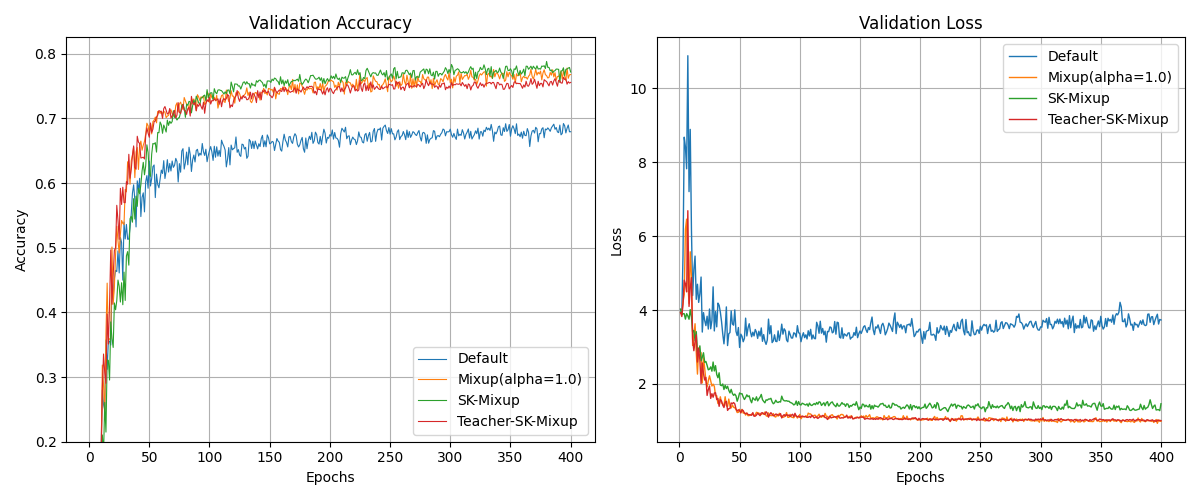
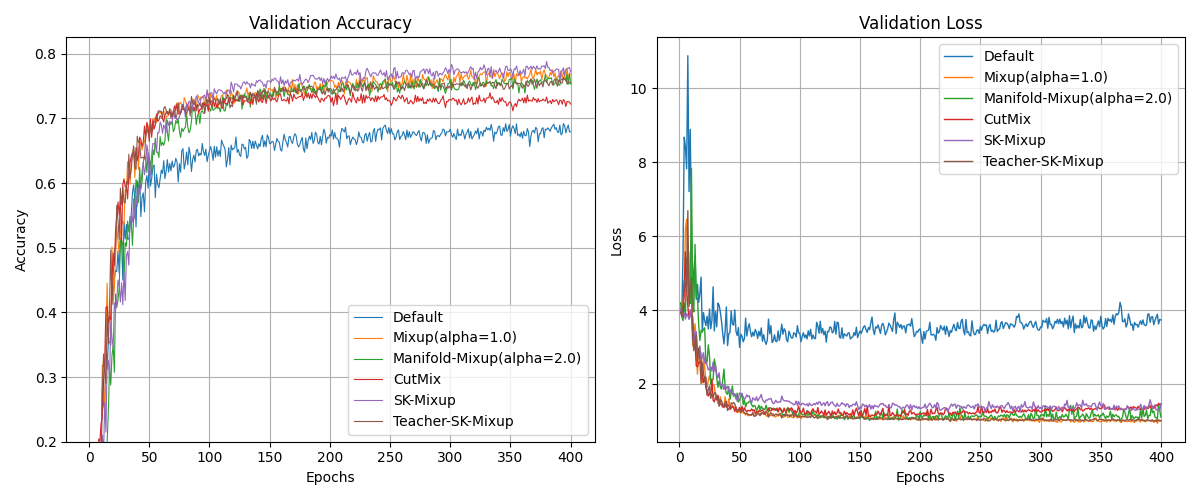
teacher-sk-mixup-curriculum

diff --git a/umap_mnist.py b/umap_mnist.py
@@ -1,58 +1,64 @@
-import umap
-from sklearn.datasets import fetch_openml
+import torch
 import numpy as np
+import umap
 import matplotlib.pyplot as plt
-import matplotlib.cm as cm
-from torchvision.datasets import CIFAR10
+from torch.utils.data import DataLoader, Subset
+from torchvision import datasets, transforms
+from src.methods.foma import foma
 
-# MNIST を NumPy 配列で取得
-mnist = fetch_openml(
-    'mnist_784',
-    version=1,
-    as_frame=False,
-    parser='liac-arff'
-)
-X, y = mnist.data.astype(np.float32) / 255.0, mnist.target.astype(int)
+def main():
 
-# サンプル絞り込み
-rng = np.random.RandomState(42)
-idx = rng.choice(len(X), 6000, replace=False)
-X_sub, y_sub = X[idx], y[idx]
+    data_type = "foma"
 
-# trainset = CIFAR10(root='./data', train=True, download=True)
-# # NumPy 配列に変換して (N, 32*32*3) のベクトルにリシェイプ＋0–1 正規化
-# X = trainset.data.astype(np.float32).reshape(len(trainset), -1) / 255.0
-# y = np.array(trainset.targets)   # (N,) のラベル配列
+    # 1. データセットの準備
+    transform = transforms.Compose([
+        transforms.ToTensor(),
+    ])
+    mnist_train = datasets.MNIST(root='data', train=True, download=True, transform=transform)
+    
+    # 2. 各クラスごとにサブセット化
+    class_indices = {digit: [] for digit in range(10)}
+    for idx, (_, label) in enumerate(mnist_train):
+        if len(class_indices[label]) < 1024:  # クラスごと最大1000サンプルまで
+            class_indices[label].append(idx)
+        # 全クラスが1000に達したらループ終了
+        if all(len(v) >= 1024 for v in class_indices.values()):
+            break
 
-# サンプル数を絞る（例：2,000件）
-rng = np.random.RandomState(42)
-idx = rng.choice(len(X), 7000, replace=False)
-X_sub, y_sub = X[idx], y[idx]
+    # 3. UMAP で次元削減しつつプロット
+    fig, axes = plt.subplots(2, 5, figsize=(15, 6))
+    axes = axes.flatten()
+    
+    for digit in range(10):
+        # サブセット抽出
+        subset = Subset(mnist_train, class_indices[digit])
+        loader = DataLoader(subset, batch_size=1024, shuffle=False)
+        
+        # 特徴（フラット画像）とラベル収集
+        feats = []
+        for imgs, labels in loader:
+            if data_type == "foma":
+                imgs, soft_labels = foma(imgs, labels, num_classes=10, alpha=1.0, rho=0.9) ## FOMA用に追加
+            feats.append(imgs.view(imgs.size(0), -1))
+        feats = torch.cat(feats, dim=0).numpy()
+        
+        # UMAP による 2D 埋め込み
+        reducer = umap.UMAP(n_components=2, random_state=42)
+        embedding = reducer.fit_transform(feats)
+        
+        # プロット
+        ax = axes[digit]
+        ax.scatter(embedding[:, 0], embedding[:, 1], s=5, alpha=0.6)
+        ax.set_title(f'Digit {digit}')
+        ax.set_xticks([]); ax.set_yticks([])
+    
+    plt.suptitle('UMAP projection for each MNIST class', fontsize=16)
+    plt.tight_layout(rect=[0, 0.03, 1, 0.95])
+    if data_type == "foma":
+        plt.savefig("FOMA_UMAP.png")
+    else:
+        plt.savefig("UMAP_IMAGES.png")
+    plt.show()
 
-# UMAP 次元削減（警告は無視してOKです）
-reducer = umap.UMAP(n_neighbors=15, min_dist=0.1, random_state=42)
-embedding = reducer.fit_transform(X_sub)
-
-# プロット
-plt.figure(figsize=(8, 8))
-cmap = cm.get_cmap('tab10', 10)
-scatter = plt.scatter(
-    embedding[:, 0],
-    embedding[:, 1],
-    c=y_sub,
-    cmap=cmap,
-    s=5,
-    alpha=0.8
-)
-
-# 凡例：handles だけ取得して、ラベルは自分で用意
-handles, _ = scatter.legend_elements(prop="colors", alpha=0.8, num=10)
-labels = [str(i) for i in range(10)]
-plt.legend(handles, labels, title="Digit", loc="best", fontsize="small")
-
-plt.gca().set_aspect('equal', 'datalim')
-plt.title('UMAP projection of MNIST')
-plt.xlabel('UMAP 1')
-plt.ylabel('UMAP 2')
-plt.savefig("UMAP_MNIST.png")
-plt.show()
+if __name__ == '__main__':
+    main()

diff --git a/tsne_mnist.py b/tsne_mnist.py
@@ -1,0 +1,60 @@
+import torch
+import numpy as np
+from sklearn.manifold import TSNE
+import matplotlib.pyplot as plt
+from torch.utils.data import DataLoader, Subset
+from torchvision import datasets, transforms
+from src.methods.foma import foma
+
+def main():
+    data_type = "fo"
+
+    # 1. データセット準備
+    transform = transforms.Compose([transforms.ToTensor()])
+    mnist_train = datasets.MNIST('data', train=True, download=True, transform=transform)
+    
+    # 2. クラスごとサブセット収集
+    class_indices = {d: [] for d in range(10)}
+    for idx, (_, lbl) in enumerate(mnist_train):
+        if len(class_indices[lbl]) < 1024:
+            class_indices[lbl].append(idx)
+        if all(len(v) >= 1024 for v in class_indices.values()):
+            break
+
+    # 3. t-SNE 埋め込み & プロット設定
+    fig, axes = plt.subplots(2, 5, figsize=(15, 6))
+    axes = axes.flatten()
+    for digit in range(10):
+        subset = Subset(mnist_train, class_indices[digit])
+        loader = DataLoader(subset, batch_size=1024, shuffle=False)
+        
+        feats = []
+        for imgs, labels in loader:
+            if data_type == "foma":
+                imgs, _ = foma(imgs, labels, num_classes=10, alpha=1.0, rho=0.9)
+            feats.append(imgs.view(imgs.size(0), -1))
+        feats = torch.cat(feats, dim=0).numpy()
+        
+        tsne = TSNE(
+            n_components=2,
+            perplexity=30,
+            learning_rate=200,
+            n_iter=1000,
+            random_state=42,
+            verbose=1
+        )
+        embedding = tsne.fit_transform(feats)
+        
+        ax = axes[digit]
+        ax.scatter(embedding[:, 0], embedding[:, 1], s=5, alpha=0.6)
+        ax.set_title(f'Digit {digit}')
+        ax.set_xticks([]); ax.set_yticks([])
+
+    plt.suptitle('t-SNE projection for each MNIST class', fontsize=16)
+    plt.tight_layout(rect=[0, 0.03, 1, 0.95])
+    fname = "FOMA_tSNE.png" if data_type=="foma" else "TSNE_IMAGES.png"
+    plt.savefig(fname)
+    plt.show()
+
+if __name__ == '__main__':
+    main()

diff --git a/src/utils.py b/src/utils.py
@@ -210,6 +210,18 @@ def train(model, train_loader, criterion, optimizer, device, augment, num_classe
             preds = model(mixed_x, labels=None, device=device, augment=augment)  # labels フラグは不要なら外す
             loss  = criterion(preds, mixed_y)
         
+        elif augment == "Teacher-SK-Mixup-Curriculum":
+            if epochs < 50:
+                teacher = Wide_ResNet(28, 10, 0.3, num_classes=num_classes).to(device)
+                teacher.load_state_dict(torch.load("./logs/wide_resnet_28_10/Mixup/cifar100_400_0.pth", weights_only=True))
+                teacher.eval()
+                feats = teacher.extract_features(images)  
+            else:
+                feats = model.extract_features(images) 
+            mixed_x, mixed_y = skmixup(images, labels, feats)
+            preds = model(mixed_x, labels=None, device=device, augment=augment)  
+            loss  = criterion(preds, mixed_y)
+        
         elif augment == "Ent-Mixup":
             images, y_a, y_b, lam, alpha = ent_augment_mixup(
                 x=images,

diff --git a/result.py b/result.py
@@ -27,11 +27,11 @@ def main():
         # "Mixup(alpha=5.0)",
         # "Manifold-Mixup(alpha=0.5)",
         # "Manifold-Mixup(alpha=1.0)",
-        # "Manifold-Mixup",
+        "Manifold-Mixup",
         # "Manifold-Mixup(alpha=5.0)",
         # "Mixup-Curriculum",
 
-        # "CutMix",
+        "CutMix",
         # "AugMix",
 
         # "Ent-Mixup",

diff --git a/train.py b/train.py
@@ -25,7 +25,8 @@ augmentations = [
     # "CutMix",
     # "AugMix",
 
-    "Teacher-SK-Mixup",
+    # "Teacher-SK-Mixup",
+    "Teacher-SK-Mixup-Curriculum",
 
     # "Manifold-SK-Mixup",
     # "SK-Mixup",
